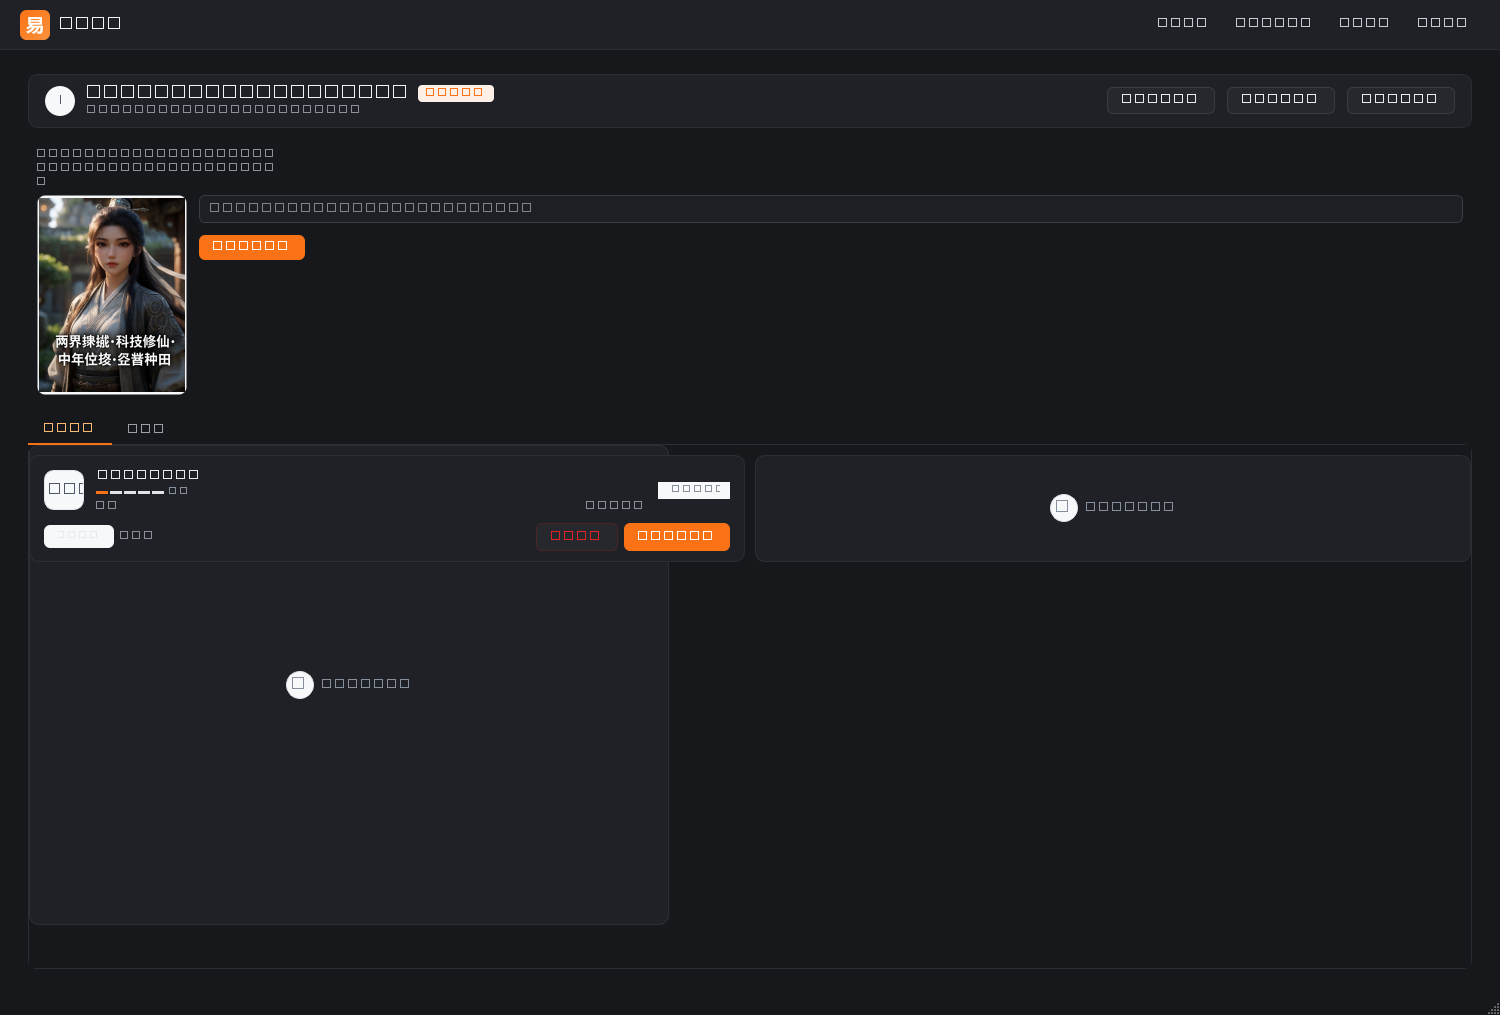
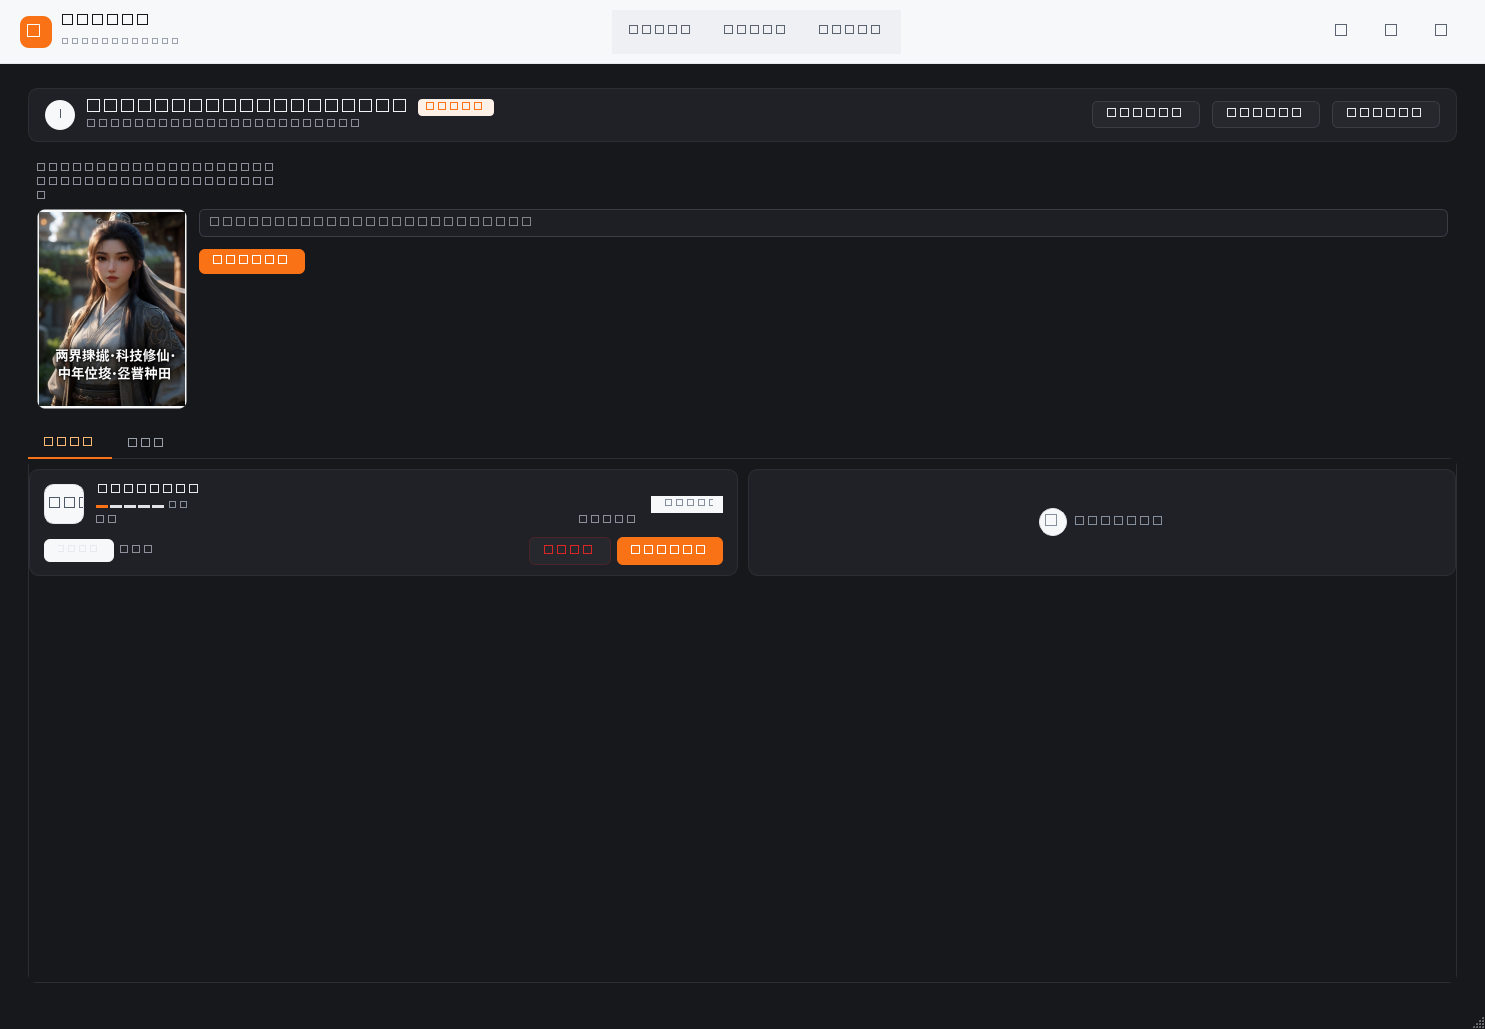
fix: 创意描述按真实文字解锁 + 集列表重复「添加第 N 集」卡片
创意描述
- 原判定「项目存在第 1 集就锁」,而新建项目必定建一个空的第 1 集,
  导致创意描述从创建那一刻就永远改不了 —— 与需求相反
- 改为 _has_generated_content():任一集有 content / script_content,
  或有漫画格带描述对白 → 锁;仅空壳集 → 可改,跳过勾选也可切换
- 锁定/未锁定两条提示收进 ui_strings(15 语言)
- 顺带修 style_edit.text() → toPlainText()(SaveOnBlurEdit 是 QPlainTextEdit);
  该路径只在「打开策划与设定」触发,此前回归未覆盖,实际启动才暴露
- 验证四场景:空壳可编辑 / 写正文后锁 / 只写 script_content 也锁 / 只有漫画格也锁

集列表重复卡片
- 根因:reload() 每次新建嵌套 QGridLayout 塞进 ep_lay,而清空时 ep_lay.takeAt()
  取到的是嵌套布局(item.widget() 为 None),取不到里面的卡片 —— 卡片早已被
  重新挂到父控件上,旧卡片留在界面上,多出一张「添加第 N 集」;addStretch 也累积
- 修复:网格与 stretch 改为 __init__ 常驻创建一次,reload 只清 ep_grid;
  清理时先 setParent(None) 立即摘除(此处 deleteLater 不生效)再 deleteLater
- 验证:连续 6 次 reload 后添加卡对象数与可见数均为 1,ep_grid 条目恒为 2

diff --git a/app/ui/project_page.py b/app/ui/project_page.py
@@ -600,6 +600,17 @@ class ProjectPage(QWidget):
         self.ep_lay = QVBoxLayout(ep_holder)
         self.ep_lay.setContentsMargins(0, 10, 0, 10)
         self.ep_lay.setSpacing(12)
+        # 集卡网格常驻:reload 只清这个 grid 的条目。
+        # (若每次 reload 新建嵌套 QGridLayout 再塞进 ep_lay,ep_lay.takeAt() 取不到嵌套布局里的
+        #  卡片——它们已被重新挂到父控件上,旧卡片会留在界面上,表现为重复的「添加第 N 集」)
+        self.ep_grid = QGridLayout()
+        self.ep_grid.setContentsMargins(0, 0, 0, 0)
+        self.ep_grid.setSpacing(10)
+        self.ep_lay.addLayout(self.ep_grid)
+        self.ep_hint = W.muted("")
+        self.ep_hint.setVisible(False)
+        self.ep_lay.addWidget(self.ep_hint)
+        self.ep_lay.addStretch(1)
         self.ep_scroll = QScrollArea()
         self.ep_scroll.setWidgetResizable(True)
         self.ep_scroll.setStyleSheet("QScrollArea{border:none;background:transparent;}")
@@ -712,10 +723,13 @@ class ProjectPage(QWidget):
             self.reload()
 
     def reload(self):
-        while self.ep_lay.count():
-            item = self.ep_lay.takeAt(0)
+        # setParent(None) 立即摘除;deleteLater 在这里不生效 —— 旧卡片仍挂在父控件上,
+        # 表现为多出一张重复的「添加第 N 集」。
+        while self.ep_grid.count():
+            item = self.ep_grid.takeAt(0)
             w = item.widget()
             if w:
+                w.setParent(None)
                 w.deleteLater()
         rows = db.q("SELECT * FROM episodes WHERE drama_id=? ORDER BY episode_number", (self.drama_id,))
         counts = {r["episode_id"]: r["c"] for r in db.q(
@@ -725,10 +739,7 @@ class ProjectPage(QWidget):
         if self.can_add_episode():
             cells = list(rows) + [None]           # 末尾放「添加第 N 集」占位卡
         cols = self._ep_cols()
-        grid = QGridLayout()
-        grid.setContentsMargins(0, 0, 0, 0)
-        grid.setSpacing(10)
-        self.ep_lay.addLayout(grid)
+        grid = self.ep_grid
         for i, ep in enumerate(cells):
             if ep is None:
                 grid.addWidget(AddEpisodeCard(rows[-1]["episode_number"] + 1 if rows else 1,
@@ -739,9 +750,8 @@ class ProjectPage(QWidget):
             grid.addWidget(EpisodeCard(d, is_novel=is_novel, on_changed=self.reload,
                                        enter=self._on_enter, rel_needed=self),
                            i // cols, i % cols)
-        if not self.can_add_episode():
-            self.ep_lay.addWidget(W.muted(tr("ep_limit_hint")))
-        self.ep_lay.addStretch(1)
+        self.ep_hint.setText("" if self.can_add_episode() else tr("ep_limit_hint"))
+        self.ep_hint.setVisible(not self.can_add_episode())
         while self.lib_grid.count():
             item = self.lib_grid.takeAt(0)
             w = item.widget()

diff --git a/PROGRESS.md b/PROGRESS.md
@@ -808,3 +808,26 @@ retry_at 直接跟随、每次提交都过串行门。
 - 换脸向导:引擎下拉列出两类服务并标注来源;选中角色载入模板成功;
   源脸分辨率 800/400/200 三档提示与按钮态实测正确
 - 亮暗 × 2 项目 × 6 步骤 × 3 导航页 × 变体/换脸弹窗 × 设置页 全绿
+
+## 2026-10-09(第 33 轮:创意描述解锁规则 + 集列表重复卡片修复)
+### 1. 创意描述:可改,生成真实文字后才锁
+- **原判定**是「项目里存在第 1 集就锁」,而新建项目必定会建一个空的第 1 集 →
+  创意描述从创建那一刻就永远改不了,与需求正好相反。
+- **新判定** `_has_generated_content(drama_id)`:任一集有正文 `content`、
+  或有剧本 `script_content`、或有漫画格带描述/对白 → 锁;都没有(仅空壳集)→ 可改,
+  「不需要创意描述」勾选也仍可切换。
+- 提示文案跟着改并收进 `ui_strings`(15 语言):
+  锁定 →「已按这份创意生成过正文,改它会让后续章节与既有正文对不上;如需调整请新建项目」
+  未锁 →「…生成出正文后自动锁定」
+- 顺带修掉 `style_edit.text()` → `toPlainText()`(`SaveOnBlurEdit` 是 QPlainTextEdit),
+  该路径只在「打开策划与设定」触发,前面的回归没覆盖,实际启动才暴露。
+- 验证四场景:空壳项目可编辑 / 写正文后锁定 / 只写 script_content 也锁 / 只有漫画格也锁。
+
+### 2. 集列表出现两张「添加第 N 集」
+- 根因:`reload()` 里每次新建一个嵌套 `QGridLayout` 塞进 `ep_lay`,而清空时
+  `ep_lay.takeAt()` 取到的是**嵌套布局**(`item.widget()` 为 None),
+  取不到里面的卡片 —— 卡片早已被重新挂到父控件上,旧卡片留在界面上,
+  表现为多出一张重复的「添加第 N 集」。`addStretch(1)` 同样每次累积。
+- 修复:网格布局与 stretch 改为 `__init__` 里**常驻创建一次**,`reload()` 只清 `ep_grid`;
+  清理时先 `setParent(None)` 立即摘除(此处 `deleteLater()` 不生效),再 `deleteLater()`。
+- 验证:连续 6 次 reload 后「添加第 N 集」对象数与可见数均为 1,`ep_grid` 条目恒为 2。
